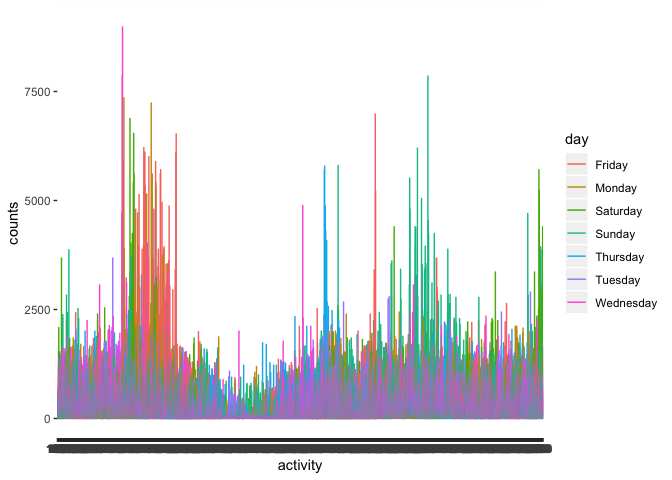
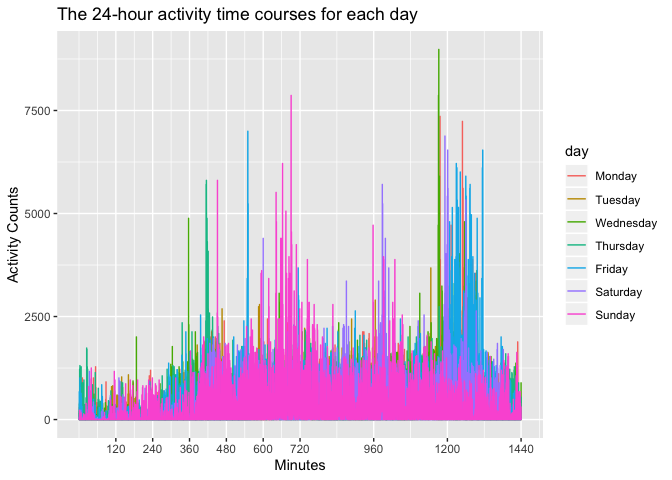
modify the plots

diff --git a/p8105_hw3_ra2965.md b/p8105_hw3_ra2965.md
@@ -360,10 +360,8 @@ In 2002, which states were observed at 7 or more locations?
 ``` r
 num_loc_2002 = health %>% 
   filter(year == 2002) %>%
-  group_by(locationabbr, locationdesc) %>% 
-  summarise(n = n()) %>% 
   group_by(locationabbr) %>% 
-  summarise(obs_loc_num = n()) %>%
+  summarise(obs_loc_num = n_distinct(locationdesc)) %>%
   filter(obs_loc_num >= 7)
 knitr::kable(num_loc_2002,
              col.names = c("State Abbreviation", "Number of observed Locations"),
@@ -444,10 +442,8 @@ In 2010, which states were observed at 7 or more locations?
 
 ``` r
 num_loc_2010 = health %>% filter(year == 2010) %>%
-  group_by(locationabbr, locationdesc) %>% 
-  summarise(n = n()) %>% 
   group_by(locationabbr) %>% 
-  summarise(obs_loc_num = n()) %>%
+  summarise(obs_loc_num = n_distinct(locationdesc)) %>% 
   filter(obs_loc_num >= 7) 
 knitr::kable(num_loc_2010,
              col.names = c("State Abbreviation", "Number of observed Locations"),
@@ -645,11 +641,14 @@ accel_data = read_csv(file = "./data/accel_data.csv") %>%
     values_to = "counts"
               ) %>%
     mutate(
+        activity = as.numeric(activity),
         day_indicator = case_when(
         day %in% c("Saturday","Sunday") ~ "weekend",
         day %in% c("Monday","Tuesday","Wednesday","Thursday","Friday") ~ "weekday",
     TRUE ~ "" 
-                                  )
+                                  ),
+        day = forcats::fct_relevel(day, c("Monday","Tuesday","Wednesday","Thursday","Friday","Saturday","Sunday"))
+    
           )
 
 #and encode data with reasonable variable classes?
@@ -685,8 +684,7 @@ reader_friendly_table = daytotal %>%
   pivot_wider(
   names_from = day,
   values_from = day_tatal
-) %>% 
-  select(week, Monday, Tuesday, Wednesday, Thursday, Friday, Saturday, Sunday) 
+) 
   
 knitr::kable(reader_friendly_table,
              format = "html",
@@ -869,7 +867,15 @@ The plot shows the 24-hour activity time courses for each day and use color to i
 ``` r
 accel_data %>% 
   ggplot(aes(x = activity, y = counts, color = day)) +
-  geom_line() 
+  geom_line() +
+  scale_x_continuous(
+    breaks = c(120, 240, 360,480,600,720,960,1200,1440)
+  ) +
+  labs(
+    title = "The 24-hour activity time courses for each day",
+    x = "Minutes",
+    y = "Activity Counts"
+  )
 ```
 
 ![](p8105_hw3_ra2965_files/figure-markdown_github/unnamed-chunk-3-1.png)
